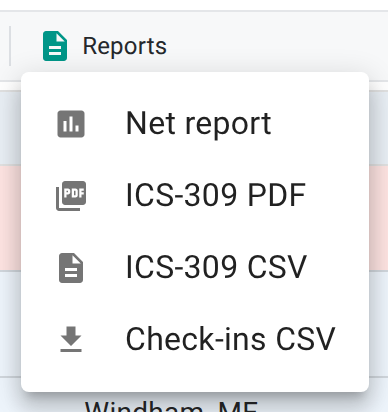
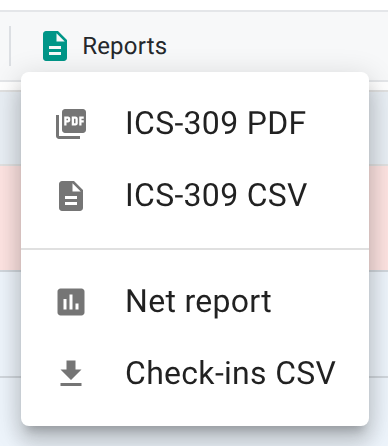
Reports menu: every download in one place, grouped by when it's useful
The toolbar's Paperwork button (one PDF of script, announcements and notes)
becomes three Reports items, Net script PDF, Announcements PDF and Net notes
PDF, each listed only when it has content and at any net status. The menu is
grouped with dividers: running the net, then the ICS forms (ICS-205,
ICS-214, ICS-309), then the net report and check-ins CSV. NetView loads the
schedule's announcements once so the menu knows whether to offer them.
Docs, the walkthrough card, DESIGN.md and the closed-net figure follow.
Changelog 2026.11.15c.

Claude-Session: https://claude.ai/code/session_01N38C5hU4iFQG7MHaLXB5jw

diff --git a/frontend/src/components/netview/NetViewHeader.tsx b/frontend/src/components/netview/NetViewHeader.tsx
@@ -22,6 +22,7 @@ import {
   DialogActions,
   Popover,
   Avatar,
+  Divider,
 } from '@mui/material';
 import { keyframes } from '@mui/system';
 import EditIcon from '@mui/icons-material/Edit';
@@ -186,6 +187,16 @@ interface ToolbarItemDef {
   iconOverride?: React.ReactNode;
 }
 
+// The net's own documents, each downloadable from the Reports menu.
+export type NetDocKind = 'script' | 'announcements' | 'notes';
+
+interface ReportMenuItem {
+  key: string;
+  label: string;
+  Icon: React.ElementType;
+  onClick: () => void;
+}
+
 interface NetViewHeaderProps {
   net: any;
   netId: string | undefined;
@@ -264,7 +275,10 @@ interface NetViewHeaderProps {
   onExportCSV: () => void;
   onExportICS309: () => void;
   onExportICS309Pdf: () => void;
-  onExportNetPaperworkPdf: () => void;
+  // Which of the net's documents have something to print, and the download
+  // for each (Reports menu).
+  netDocs: Record<NetDocKind, boolean>;
+  onExportNetDocPdf: (doc: NetDocKind) => void;
   onArchive: () => void;
   onUnarchive: () => void;
   onDelete: () => void;
@@ -386,7 +400,8 @@ const NetViewHeader: React.FC<NetViewHeaderProps> = ({
   onExportCSV,
   onExportICS309,
   onExportICS309Pdf,
-  onExportNetPaperworkPdf,
+  netDocs,
+  onExportNetDocPdf,
   onArchive,
   onUnarchive,
   onDelete,
@@ -413,6 +428,33 @@ const NetViewHeader: React.FC<NetViewHeaderProps> = ({
   // when Build an ICS-205 is on. Offered at any status, since the plan is
   // usually handed out before the net.
   const offerIcs205 = isAuthenticated && !!net.ics205_enabled;
+
+  // ========== REPORTS MENU CONTENTS ==========
+  // Three groups, in the order they're useful (Brad, 2026-11-15):
+  // 1. Running the net: its script, announcements and notes, at any status.
+  // 2. For the EMA or an incident: the ICS-205, and once closed the ICS-214
+  //    (net control only, who finish it before downloading) and ICS-309.
+  // 3. After the net: the net report and the check-ins spreadsheet.
+  // Empty groups are dropped; the Reports button hides when all three are.
+  const reportGroups: ReportMenuItem[][] = [
+    [
+      ...(netDocs.script ? [{ key: 'script-pdf', label: 'Net script PDF', Icon: ArticleIcon, onClick: () => onExportNetDocPdf('script') }] : []),
+      ...(netDocs.announcements ? [{ key: 'announcements-pdf', label: 'Announcements PDF', Icon: CampaignIcon, onClick: () => onExportNetDocPdf('announcements') }] : []),
+      ...(netDocs.notes ? [{ key: 'notes-pdf', label: 'Net notes PDF', Icon: SpeakerNotesIcon, onClick: () => onExportNetDocPdf('notes') }] : []),
+    ],
+    [
+      ...(offerIcs205 ? [{ key: 'ics205', label: 'ICS-205 radio plan', Icon: SettingsInputAntennaIcon, onClick: () => navigate(`/nets/${netId}/ics205`) }] : []),
+      ...(isClosedOrArchived && actions.prepare_ics214 ? [{ key: 'ics214', label: 'ICS-214', Icon: EditNoteIcon, onClick: () => navigate(`/nets/${netId}/ics214`) }] : []),
+      ...(isClosedOrArchived ? [
+        { key: 'ics309-pdf', label: 'ICS-309 PDF', Icon: PictureAsPdfIcon, onClick: onExportICS309Pdf },
+        { key: 'ics309', label: 'ICS-309 CSV', Icon: DescriptionIcon, onClick: onExportICS309 },
+      ] : []),
+    ],
+    isClosedOrArchived ? [
+      { key: 'report', label: 'Net report', Icon: AssessmentIcon, onClick: () => navigate(`/nets/${netId}/report`) },
+      { key: 'csv', label: 'Check-ins CSV', Icon: DownloadIcon, onClick: onExportCSV },
+    ] : [],
+  ].filter((group) => group.length > 0);
 
   const startingUpNet = canStartNet && isDraftOrScheduled;
   // Open lobby sits beside Start net until the scheduled start time passes
@@ -547,16 +589,6 @@ const NetViewHeader: React.FC<NetViewHeaderProps> = ({
       visible: !!net.template_id && (checkInsCount > 0 || (actions.edit && !!net.topic_of_week_enabled)),
       Icon: HistoryIcon, color: neutralIconColor, label: 'Topics',
       tooltip: 'View prior topics', onClick: () => topicHistory.onOpen(),
-    },
-    {
-      // Combined script + announcements export -- doesn't capture either
-      // docked/floating panel's DOM (see NetPaperworkPrintView.tsx), so it
-      // doesn't need either one open, and works during a live net as well as
-      // the closed/archived-only exports in the management group below.
-      key: 'net-paperwork-pdf', group: 'info', priority: 1,
-      visible: checkInsCount > 0 && (!!net.script || !!net.announcements),
-      Icon: PictureAsPdfIcon, color: neutralIconColor, label: 'Paperwork',
-      tooltip: 'Download net script and notes as PDF', onClick: onExportNetPaperworkPdf,
     },
     {
       key: 'stats', group: 'info', priority: 3,
@@ -737,15 +769,14 @@ const NetViewHeader: React.FC<NetViewHeaderProps> = ({
       tooltip: 'Close net', onClick: () => closeNetDialog.onOpen(),
     },
     {
-      // A closed net's report, logs and spreadsheets in one menu (Brad,
-      // 2026-10-30): Export, ICS-309, ICS-309 PDF and Report were four
-      // buttons. The ICS-214 is net control's to finish, so only they see it.
-      // Before the net closes the menu shows only when there is an ICS-205
-      // to offer, and holds only that.
+      // Every download for this net in one menu (Brad, 2026-10-30: Export,
+      // ICS-309, ICS-309 PDF and Report were four buttons; 2026-11-15: the
+      // Paperwork button became one item per document). Shown whenever the
+      // menu has something in it; see REPORTS MENU below for what and when.
       key: 'reports', group: 'management', priority: 2,
-      visible: isClosedOrArchived || offerIcs205,
+      visible: reportGroups.length > 0,
       Icon: DescriptionIcon, color: '#009688', label: 'Reports',
-      tooltip: isClosedOrArchived ? 'Net report, logs and spreadsheets' : 'ICS-205 radio plan',
+      tooltip: 'Reports and downloads',
       onClick: (anchor) => setReportsAnchor(anchor ?? null),
     },
     {
@@ -1219,30 +1250,18 @@ const NetViewHeader: React.FC<NetViewHeaderProps> = ({
       </Box>
 
       {/* ========== REPORTS MENU ========== */}
-      {/* Closed and archived nets: everything. Before that: the ICS-205 only. */}
+      {/* Grouped by when each download is useful (reportGroups), with a line
+          between groups. */}
       <Menu anchorEl={reportsAnchor} open={!!reportsAnchor} onClose={() => setReportsAnchor(null)}>
-        {[
-          ...(isClosedOrArchived ? [
-            { key: 'report', label: 'Net report', Icon: AssessmentIcon, onClick: () => navigate(`/nets/${netId}/report`) },
-            { key: 'ics309-pdf', label: 'ICS-309 PDF', Icon: PictureAsPdfIcon, onClick: onExportICS309Pdf },
-            { key: 'ics309', label: 'ICS-309 CSV', Icon: DescriptionIcon, onClick: onExportICS309 },
-            // Net control only, who finish the form before downloading it
-            ...(actions.prepare_ics214
-              ? [{ key: 'ics214', label: 'ICS-214', Icon: EditNoteIcon, onClick: () => navigate(`/nets/${netId}/ics214`) }]
-              : []),
-          ] : []),
-          ...(offerIcs205
-            ? [{ key: 'ics205', label: 'ICS-205 radio plan', Icon: SettingsInputAntennaIcon, onClick: () => navigate(`/nets/${netId}/ics205`) }]
-            : []),
-          ...(isClosedOrArchived
-            ? [{ key: 'csv', label: 'Check-ins CSV', Icon: DownloadIcon, onClick: onExportCSV }]
-            : []),
-        ].map(({ key, label, Icon, onClick }) => (
-          <MenuItem key={key} onClick={() => { setReportsAnchor(null); onClick(); }}>
-            <ListItemIcon><Icon sx={{ fontSize: 18 }} /></ListItemIcon>
-            <ListItemText>{label}</ListItemText>
-          </MenuItem>
-        ))}
+        {reportGroups.flatMap((group, i) => [
+          ...(i > 0 ? [<Divider key={`divider-${i}`} />] : []),
+          ...group.map(({ key, label, Icon, onClick }) => (
+            <MenuItem key={key} onClick={() => { setReportsAnchor(null); onClick(); }}>
+              <ListItemIcon><Icon sx={{ fontSize: 18 }} /></ListItemIcon>
+              <ListItemText>{label}</ListItemText>
+            </MenuItem>
+          )),
+        ])}
       </Menu>
 
       <Dialog open={stepAwayConfirmOpen} onClose={() => setStepAwayConfirmOpen(false)}>

diff --git a/frontend/src/pages/NetView.tsx b/frontend/src/pages/NetView.tsx
@@ -13,7 +13,7 @@ import RoleAssignmentDialog from '../components/netview/RoleAssignmentDialog';
 import CheckInFormDialog, { CheckInFormState } from '../components/netview/CheckInFormDialog';
 import NetControlDialogs, { type ClosingAction, type TopicPollAction } from '../components/netview/NetControlDialogs';
 import EarlyStartDialog from '../components/EarlyStartDialog';
-import NetViewHeader from '../components/netview/NetViewHeader';
+import NetViewHeader, { NetDocKind } from '../components/netview/NetViewHeader';
 import AutoCloseWarningBanner from '../components/netview/AutoCloseWarningBanner';
 import DraftLogBanner from '../components/netview/DraftLogBanner';
 import { getCheckInStatusHelpers } from '../components/netview/checkInStatusHelpers';
@@ -1309,29 +1309,38 @@ const NetView: React.FC = () => {
   // schedule's announcements, the net's notes) -- the same print layout each
   // panel's own PDF button uses (utils/markdownDocsPdf.tsx). The schedule's
   // announcements aren't part of the net, so they are fetched at click time.
-  const handleExportNetPaperworkPdf = async () => {
+  // ========== NET DOCUMENT PDFs (Reports menu) ==========
+  // The schedule's announcements live on the schedule, not the net, so they
+  // are loaded once here: the Reports menu offers "Announcements PDF" only
+  // when there is something to print.
+  const [scheduleAnnouncementsText, setScheduleAnnouncementsText] = useState('');
+  useEffect(() => {
+    setScheduleAnnouncementsText('');
+    if (!net?.template_id) return;
+    let alive = true;
+    templateApi.get(net.template_id)
+      .then((res) => { if (alive) setScheduleAnnouncementsText(res.data.announcements || ''); })
+      .catch(() => { /* no announcements item rather than an error */ });
+    return () => { alive = false; };
+  }, [net?.template_id]);
+
+  // One document per download, the same PDF its panel's own button makes.
+  const handleExportNetDocPdf = async (doc: NetDocKind) => {
     if (!net) return;
+    const { title, content } = {
+      script: { title: 'Net Script', content: net.script || '' },
+      announcements: { title: 'Announcements', content: scheduleAnnouncementsText },
+      notes: { title: 'Net Notes', content: net.announcements || '' },
+    }[doc];
     try {
-      let scheduleAnnouncementsText = '';
-      if (net.template_id) {
-        try {
-          scheduleAnnouncementsText = (await templateApi.get(net.template_id)).data.announcements || '';
-        } catch {
-          // Export what the net itself has rather than nothing.
-        }
-      }
       await exportMarkdownDocsPdf({
         netName: net.name,
-        label: 'Net Paperwork',
-        sections: [
-          { title: 'Net Script', content: net.script || '' },
-          { title: 'Announcements', content: scheduleAnnouncementsText },
-          { title: 'Net Notes', content: net.announcements || '' },
-        ],
-        filename: `${pdfFileStem(net.name)}_Paperwork`,
+        label: title,
+        sections: [{ title, content }],
+        filename: `${pdfFileStem(net.name)}_${pdfFileStem(title)}`,
       });
     } catch (error) {
-      console.error('Failed to export net paperwork PDF:', error);
+      console.error(`Failed to export ${title} PDF:`, error);
     }
   };
 
@@ -1843,7 +1852,12 @@ const NetView: React.FC = () => {
         onExportCSV={handleExportCSV}
         onExportICS309={handleExportICS309}
         onExportICS309Pdf={handleExportICS309Pdf}
-        onExportNetPaperworkPdf={handleExportNetPaperworkPdf}
+        netDocs={{
+          script: !!net.script?.trim(),
+          announcements: !!scheduleAnnouncementsText.trim(),
+          notes: !!net.announcements?.trim(),
+        }}
+        onExportNetDocPdf={handleExportNetDocPdf}
         onArchive={handleArchive}
         onUnarchive={handleUnarchive}
         onDelete={handleDelete}

diff --git a/frontend/src/utils/markdownDocsPdf.tsx b/frontend/src/utils/markdownDocsPdf.tsx
@@ -13,7 +13,7 @@ export const pdfFileStem = (text: string): string => text.replace(/[^a-zA-Z0-9]/
  *
  * Renders NetPaperworkPrintView into a throwaway off-screen node, captures it,
  * and removes it again, so every caller (each panel's own PDF button, the
- * toolbar's combined Paperwork button, a popped-out window) shares one print
+ * Reports menu, a popped-out window) shares one print
  * layout without mounting a hidden copy of it permanently. Empty sections are
  * dropped; with nothing left, nothing is saved.
  */

diff --git a/frontend/src/components/walkthroughSteps.ts b/frontend/src/components/walkthroughSteps.ts
@@ -145,7 +145,7 @@ export const NET_CONTROL_STEPS: WalkthroughStep[] = [
     icon: 'desk',
     title: 'The net control desk',
     body:
-      'The toolbar holds the net\'s tools: Map, Traffic, Off-net, Script, Notes, Paperwork and more. ' +
+      'The toolbar holds the net\'s tools: Map, Traffic, Off-net, Script, Notes, Reports and more. ' +
       'Roles assigns NCS and Logger to other operators.',
     learnMore: '/docs/net-control/the-net-control-desk/',
   },

diff --git a/docs/net-control/the-net-control-desk.md b/docs/net-control/the-net-control-desk.md
@@ -40,7 +40,6 @@ Every button is gated by who you are and what state the net is in, so a Standard
 - **Drill plan** — opens the net's [drill plan](/docs/net-managers/drill-plans/) in a new tab, when it has one.
 - **Script** / **Announcements** / **Notes** / **Stats** — read-only views of the net script, the schedule's announcements, this net's own notes, and this net's statistics page.
 - **Topics** — this net's topic of the week and the schedule's [prior topics](/docs/operators/chat-and-polls/#prior-topics). Set or change tonight's question here with **Set This Net's Topic**.
-- **Paperwork** — saves the script, the schedule's announcements, and this net's notes as one PDF to print. See [Scripts, notes, and announcements](/docs/net-managers/scripts-and-announcements/).
 - **Audio** and **Website**, when the net has a stream URL or an info URL set, open those in a new tab.
 
 ### Management (right side)
@@ -62,7 +61,7 @@ Every button is gated by who you are and what state the net is in, so a Standard
 - **I hear** — records which stations you can hear, if the net has coverage logging on and allows self-reporting. See [Reporting what you hear](/docs/operators/reporting-what-you-hear/).
 - **Close net** — ends the session. See [Closing the net](/docs/net-control/closing-the-net/) for what it does and doesn't undo.
 
-Once a net is closed or archived, the management group swaps to **Reports** and (staff only) **Archive** or **Delete**. **Reports** opens a menu with the net report, the ICS-309 Communications Log as a PDF or CSV, net control's [ICS-214](/docs/net-control/ics-214/), and the check-in spreadsheet. These are covered in [Closing the net](/docs/net-control/closing-the-net/). Before the net closes, a net with **Build an ICS-205** on shows **Reports** to anyone signed in, with the [ICS-205 radio plan](/docs/net-managers/reports-and-exports/#the-ics-205-radio-plan) as its only item.
+**Reports** opens a menu of the net's downloads, in three groups. At the top are the documents for running the net: **Net script PDF**, **Announcements PDF**, and **Net notes PDF**, each listed when it has something in it, at any stage of the net. In the middle are the incident forms: the [ICS-205 radio plan](/docs/net-managers/reports-and-exports/#the-ics-205-radio-plan) for anyone signed in, when the net has **Build an ICS-205** on, and once the net is closed, net control's [ICS-214](/docs/net-control/ics-214/) and the ICS-309 Communications Log as a PDF or CSV. At the bottom, once the net is closed, are the net report and the check-in spreadsheet. These are covered in [Closing the net](/docs/net-control/closing-the-net/). Once a net is closed or archived, staff also get **Archive** or **Delete**.
 
 ## The title row
 

diff --git a/docs/DESIGN.md b/docs/DESIGN.md
@@ -697,12 +697,16 @@ block (`actions.block_station`).
 hand (hidden for the acting NCS — doesn't make sense to raise a hand to get
 your own attention), Step away, Role switch (labelled "Role: NCS" / "Role:
 Standard" depending on current state — click to toggle), Check out, Check in, Go live, Close
-net, Reports, Archive, Unarchive, Delete. **Reports** (closed and archived
-nets) opens a menu rather than acting itself: Net report, ICS-309 PDF,
-ICS-309 CSV, ICS-214 (only with `actions.prepare_ics214`), and Check-ins CSV.
-It replaced four buttons (Export, ICS-309, ICS-309 PDF, Report) on
-2026-10-31; a closed net's other downloads belong in that menu, not on the
-bar. Paperwork stays its own button, since it is used while the net runs. Same visibility
+net, Reports, Archive, Unarchive, Delete. **Reports** opens a menu rather
+than acting itself, holding every download the net has, in three groups split
+by a divider and ordered by when they're useful (Brad, 2026-11-15): running
+the net (Net script PDF, Announcements PDF, Net notes PDF, each only when it
+has content, at any status), the EMA or an incident (ICS-205 radio plan, then
+on a closed net ICS-214 with `actions.prepare_ics214`, ICS-309 PDF and
+ICS-309 CSV), and after the net (Net report, Check-ins CSV). The button shows
+whenever a group has something in it. It replaced four buttons (Export,
+ICS-309, ICS-309 PDF, Report) on 2026-10-31 and the combined Paperwork button
+on 2026-11-15; a net's downloads belong in that menu, not on the bar. Same visibility
 conditions as before the redesign (see `NetViewHeader.tsx` — each button's
 condition is unchanged, only the visual treatment and grouping moved), except
 Step Away: if the acting NCS is the only currently-active NCS on the net,

diff --git a/docs/net-control/closing-the-net.md b/docs/net-control/closing-the-net.md
@@ -59,11 +59,11 @@ When the log is complete, click **Send the log** on the banner at the top of the
 
 ## After closing
 
-Once a net is closed, the toolbar's **Reports** menu opens its report and logs to **anyone who can see the net**. **Net report**, **ICS-309 PDF**, **ICS-309 CSV**, and **Check-ins CSV** are open to any viewer, participant included, and to a visitor who isn't signed in. For a visitor, email addresses and phone numbers typed into notes and other free-text fields are hidden, the same as on the check-in list, and the ICS-309 leaves out the off-net log. A net with **Build an ICS-205** on also lists the **ICS-205 radio plan**, for anyone signed in.
+Once a net is closed, the toolbar's **Reports** menu opens its report and logs to **anyone who can see the net**. **ICS-309 PDF**, **ICS-309 CSV**, **Net report**, and **Check-ins CSV** are open to any viewer, participant included, and to a visitor who isn't signed in. For a visitor, email addresses and phone numbers typed into notes and other free-text fields are hidden, the same as on the check-in list, and the ICS-309 leaves out the off-net log. A net with **Build an ICS-205** on also lists the **ICS-205 radio plan**, for anyone signed in.
 
 <figure>
   <img src="/docs/img/net-control/closed-net-exports.png"
-       alt="The Reports menu open on a closed net, as seen by a station with no staff role: Net report, ICS-309 PDF, ICS-309 CSV, and Check-ins CSV.">
+       alt="The Reports menu open on a closed net, as seen by a station with no staff role: ICS-309 PDF and ICS-309 CSV, then Net report and Check-ins CSV.">
   <figcaption>Once a net is closed, its report and logs are open to anyone who can see the net; only Archive and Delete stay staff-only.</figcaption>
 </figure>
 

diff --git a/docs/net-managers/scripts-and-announcements.md b/docs/net-managers/scripts-and-announcements.md
@@ -4,7 +4,7 @@ summary: The script Net Control reads from, standing weekly announcements, one-n
 kind: How-to
 audience: Net owners, schedule owners, and co-managers
 owner: KC1JMH
-revised: 2026-11-07
+revised: 2026-11-15
 review_by: 2027-09-19
 applies_to: ECTLogger, hosted and self-hosted
 permalink: /docs/net-managers/scripts-and-announcements/
@@ -58,7 +58,7 @@ The **Notes for this net only** box on Edit Net's Announcements tab (opened live
 
 Each of the three panels (**Script**, **Announcements**, and **Notes**) has a PDF button next to its pencil. It saves only that document, with the net's name and the date at the top, wherever the panel is open: docked, floating, or in its own window. A Net Control operator who wants a paper copy in hand prints the script this way instead of reading it from a second screen.
 
-The toolbar's **Paperwork** button saves all three in one PDF: the script, the schedule's announcements, and this net's notes, skipping any that are empty.
+The net's **Reports** menu has the same three downloads, **Net script PDF**, **Announcements PDF**, and **Net notes PDF**, without opening a panel. Each is listed only when that document has something in it, before, during, and after the net.
 
 Both are built from what's saved. Between nets, the schedule's announcements can also be printed from the **Export PDF** button on the schedule card's Announcements line (see [Standing announcements](#standing-announcements)).
 

diff --git a/docs/net-managers/reports-and-exports.md b/docs/net-managers/reports-and-exports.md
@@ -12,7 +12,7 @@ permalink: /docs/net-managers/reports-and-exports/
 
 # Reports, ICS-309, and exports
 
-A closed net's toolbar has one **Reports** button, which opens a menu of everything the net produced. None of it requires reopening the net or changes the record; pulling a copy again doesn't re-send anything. A net with **Build an ICS-205** on shows the **Reports** button before it closes too, to signed-in viewers, with **ICS-205 radio plan** as its only item.
+A net's toolbar has one **Reports** button, which opens a menu of everything the net has to download. It lists the documents for running the net first (the script, the schedule's announcements, and the net's notes, as PDFs), then the incident forms (ICS-205, ICS-214, ICS-309), then the net report and the check-ins spreadsheet. Before the net closes it holds only what applies then: the three documents, and the ICS-205 when **Build an ICS-205** is on. None of it requires reopening the net or changes the record; pulling a copy again doesn't re-send anything.
 
 <figure>
   <img src="/docs/img/net-managers/net-export-toolbar.png"

diff --git a/docs/CHANGELOG.md b/docs/CHANGELOG.md
@@ -26,6 +26,7 @@ All notable changes to ECTLogger are documented here.
 ## Improvements
 
 * **Chat: See who reacted** — Hover over a reaction on a chat message to see the callsigns of everyone who chose it, or press and hold on a phone.
+* **Net View: Every download in the Reports menu** — The Paperwork button is now separate Net script, Announcements and Net notes PDFs in the Reports menu, ready before the net starts. The menu lists what helps run the net first, then the ICS forms, then the net report and spreadsheet.
 
 ---
 
